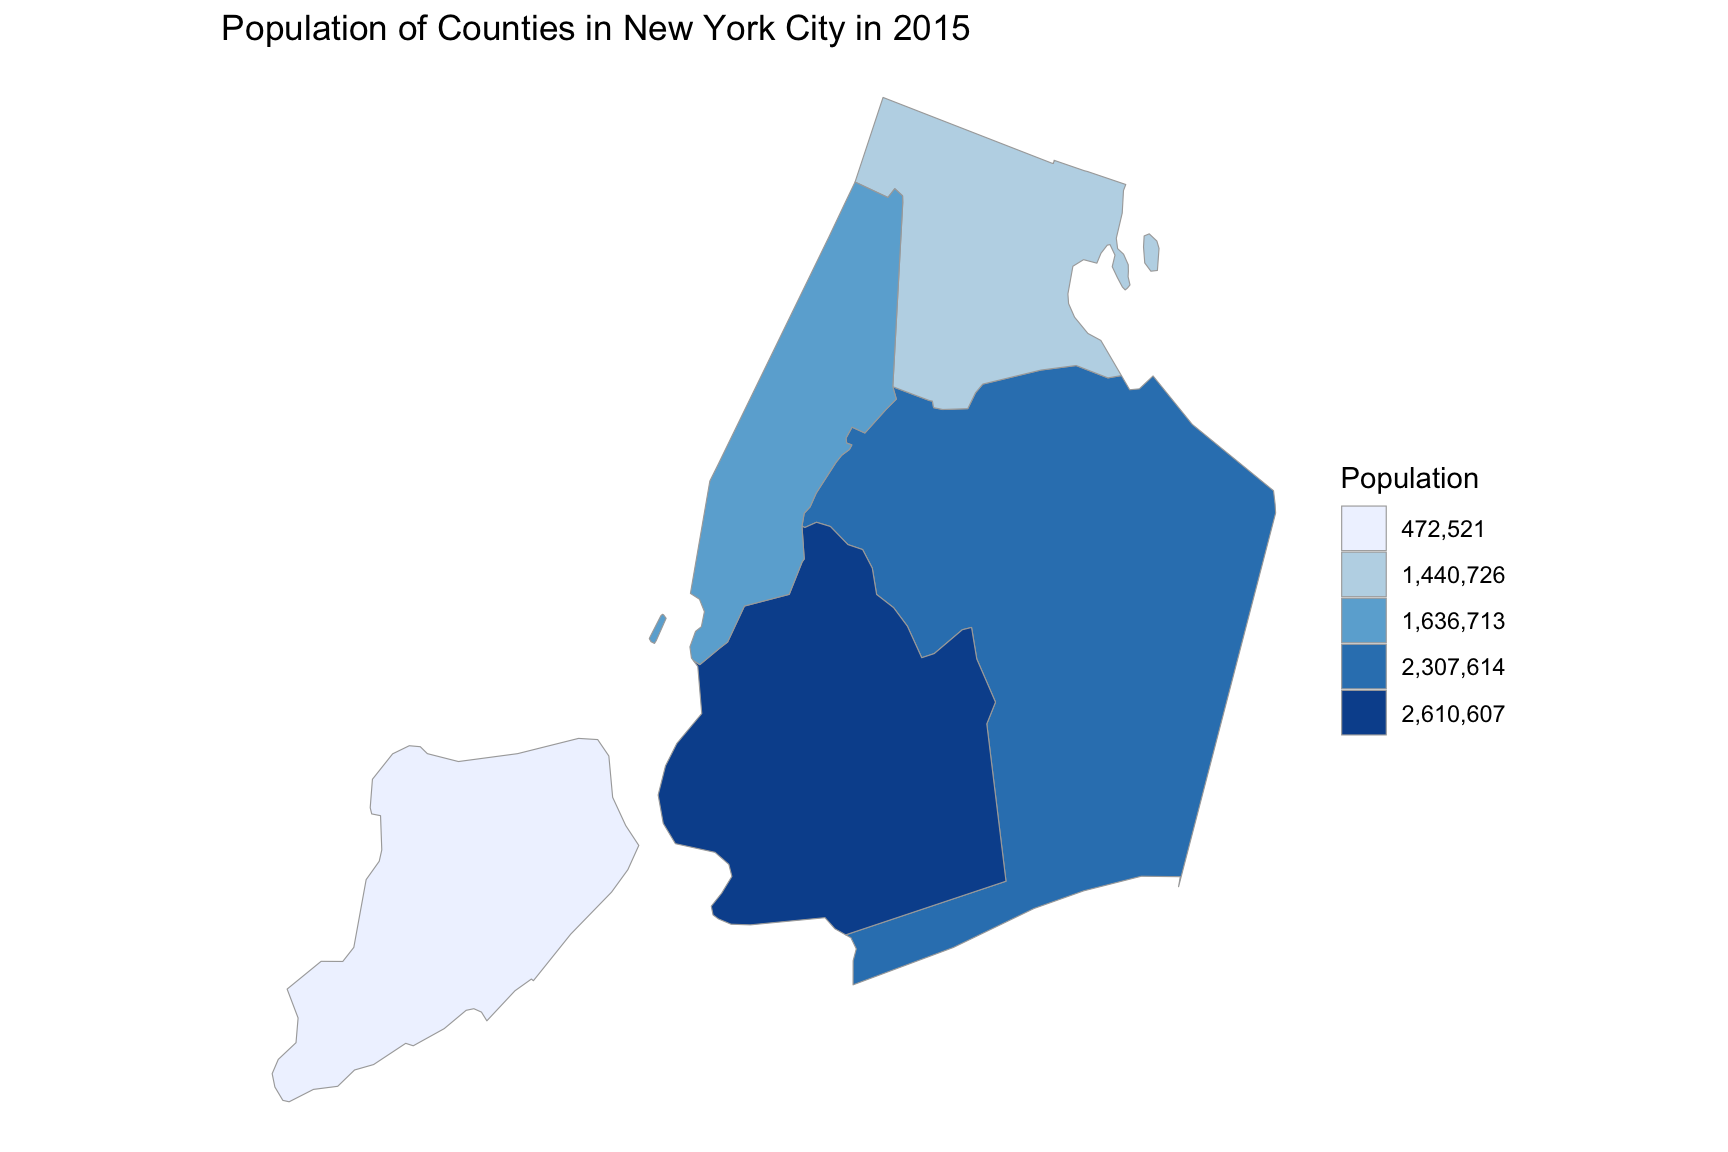
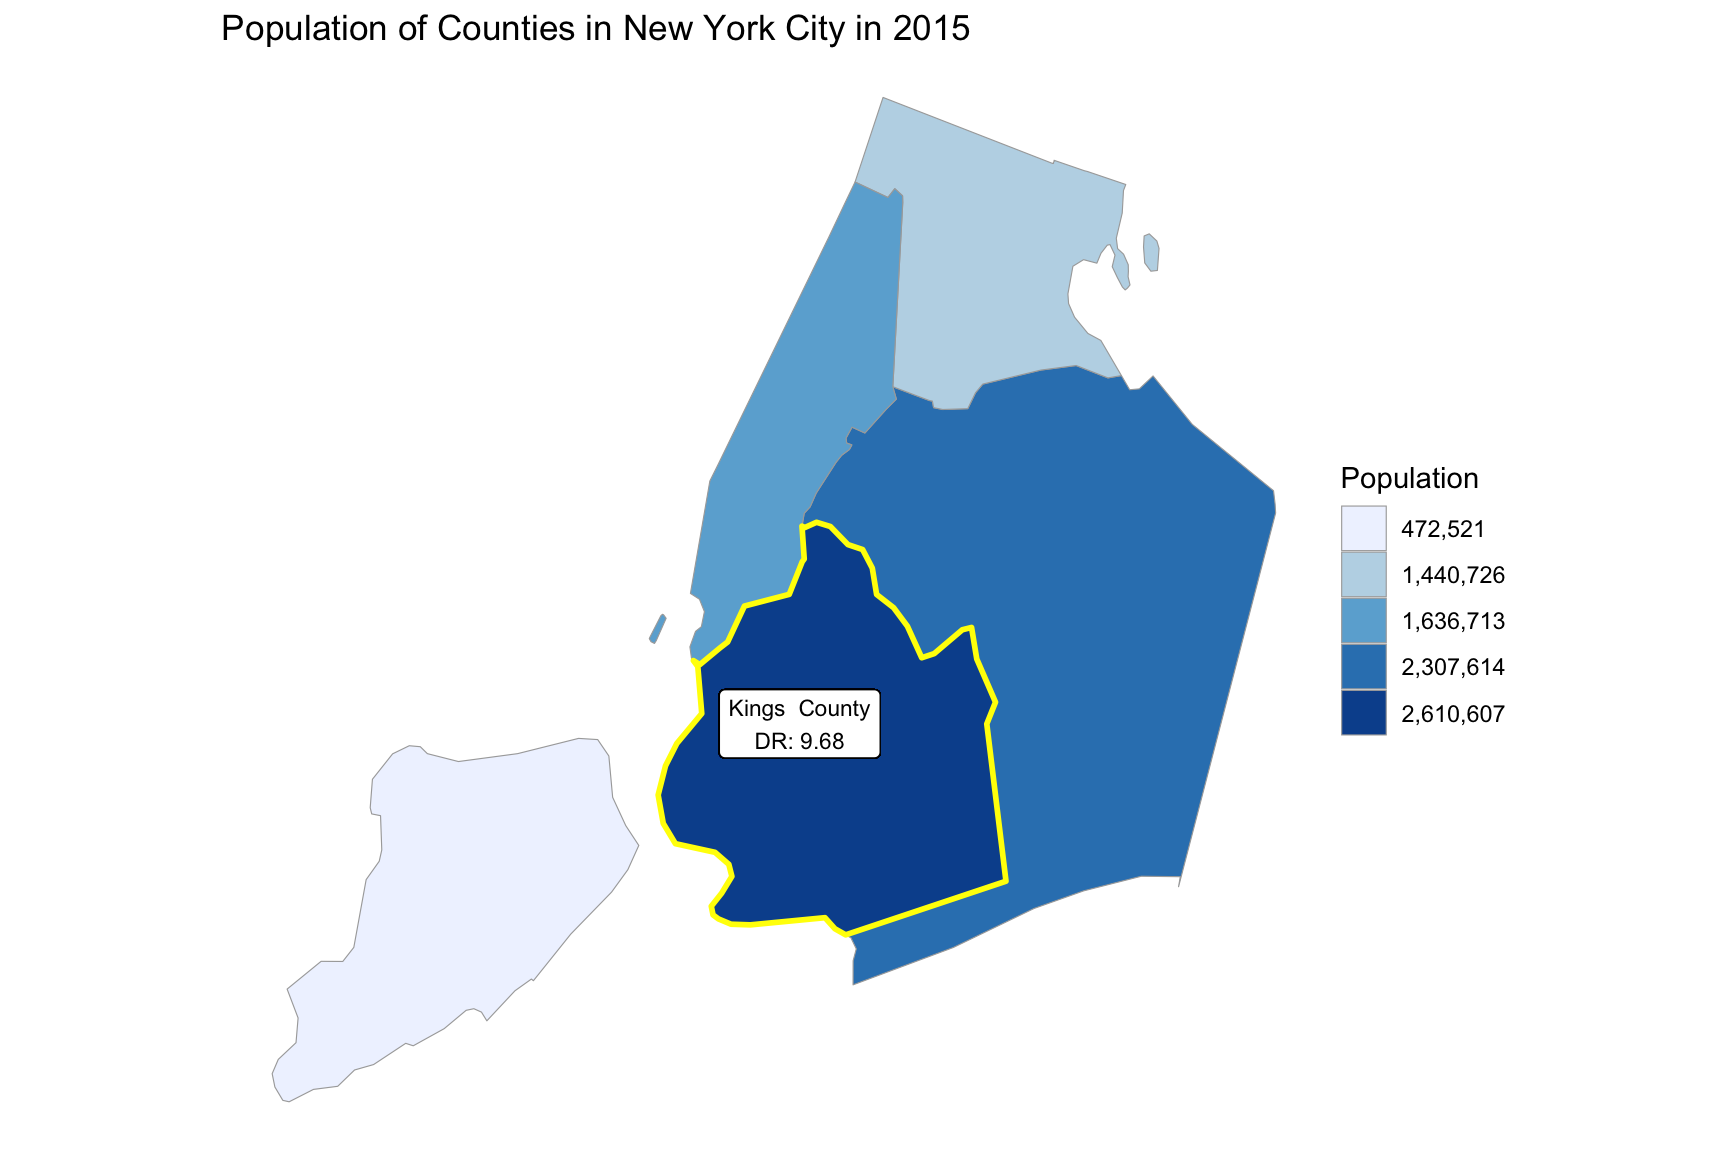
add highlights to the map

diff --git a/NY_data_analyzing.html b/NY_data_analyzing.html
@@ -311,7 +311,6 @@ $(document).ready(function () {
 <ul>
 <li>Missing data of death counts for specific drug types in year 2016, 2017</li>
 </ul>
-<p>*Percent with drugs specified for each month from 2015-2021 are high enough, all above 98%</p>
 <ol style="list-style-type: decimal">
 <li>Number of Drug Overdose Deaths by Drug Categories in NYC</li>
 </ol>
@@ -346,8 +345,8 @@ $(document).ready(function () {
 <ol start="4" style="list-style-type: decimal">
 <li>Median Household Income: New York vs. The U.S</li>
 </ol>
-<div id="htmlwidget-1500a3b0fc5d900f8a44" style="width:90%;height:576px;" class="plotly html-widget"></div>
-<script type="application/json" data-for="htmlwidget-1500a3b0fc5d900f8a44">{"x":{"visdat":{"11ced42f48be3":["function () ","plotlyVisDat"]},"cur_data":"11ced42f48be3","attrs":{"11ced42f48be3":{"x":{},"y":{},"text":{},"mode":"markers+lines","error_y":{},"color":{},"colors":"viridis","alpha":0.5,"alpha_stroke":1,"sizes":[10,100],"spans":[1,20],"type":"scatter"}},"layout":{"margin":{"b":40,"l":60,"t":25,"r":10},"title":"Median Household Income: New York vs. The U.S","xaxis":{"domain":[0,1],"automargin":true,"title":"Year","type":"category","categoryorder":"array","categoryarray":["2015","2016","2017","2018","2019"]},"yaxis":{"domain":[0,1],"automargin":true,"title":"Median Household Income"},"hovermode":"closest","showlegend":true},"source":"A","config":{"modeBarButtonsToAdd":["hoverclosest","hovercompare"],"showSendToCloud":false},"data":[{"x":["2019","2018","2017","2016","2015"],"y":[41432,38467,37397,37525,35176],"text":["Year: 2019<br />Median Household Income: $41432<br />Margin of error: ± $1090","Year: 2018<br />Median Household Income: $38467<br />Margin of error: ± $1864","Year: 2017<br />Median Household Income: $37397<br />Margin of error: ± $1444","Year: 2016<br />Median Household Income: $37525<br />Margin of error: ± $1266","Year: 2015<br />Median Household Income: $35176<br />Margin of error: ± $1392"],"mode":"markers+lines","error_y":{"color":"rgba(68,1,84,0.5)","array":[118,1090,1343,3322,1832]},"type":"scatter","name":"Bronx County","marker":{"color":"rgba(68,1,84,0.5)","line":{"color":"rgba(68,1,84,1)"}},"textfont":{"color":"rgba(68,1,84,0.5)"},"error_x":{"color":"rgba(68,1,84,0.5)"},"line":{"color":"rgba(68,1,84,0.5)"},"xaxis":"x","yaxis":"y","frame":null},{"x":["2019","2018","2017","2016","2015"],"y":[66937,61220,56942,55150,51141],"text":["Year: 2019<br />Median Household Income: $66937<br />Margin of error: ± $1343","Year: 2018<br />Median Household Income: $61220<br />Margin of error: ± $1083","Year: 2017<br />Median Household Income: $56942<br />Margin of error: ± $1151","Year: 2016<br />Median Household Income: $55150<br />Margin of error: ± $1015","Year: 2015<br />Median Household Income: $51141<br />Margin of error: ± $566"],"mode":"markers+lines","error_y":{"color":"rgba(68,58,131,0.5)","array":[5711,1121,94,1864,1083]},"type":"scatter","name":"Kings County","marker":{"color":"rgba(68,58,131,0.5)","line":{"color":"rgba(68,58,131,1)"}},"textfont":{"color":"rgba(68,58,131,0.5)"},"error_x":{"color":"rgba(68,58,131,0.5)"},"line":{"color":"rgba(68,58,131,0.5)"},"xaxis":"x","yaxis":"y","frame":null},{"x":["2019","2018","2017","2016","2015"],"y":[69407,63799,60879,58856,55752],"text":["Year: 2019<br />Median Household Income: $69407<br />Margin of error: ± $1121","Year: 2018<br />Median Household Income: $63799<br />Margin of error: ± $1118","Year: 2017<br />Median Household Income: $60879<br />Margin of error: ± $500","Year: 2016<br />Median Household Income: $58856<br />Margin of error: ± $1105","Year: 2015<br />Median Household Income: $55752<br />Margin of error: ± $592"],"mode":"markers+lines","error_y":{"color":"rgba(49,104,142,0.5)","array":[3480,1781,5148,1118,86]},"type":"scatter","name":"New York City","marker":{"color":"rgba(49,104,142,0.5)","line":{"color":"rgba(49,104,142,1)"}},"textfont":{"color":"rgba(49,104,142,0.5)"},"error_x":{"color":"rgba(49,104,142,0.5)"},"line":{"color":"rgba(49,104,142,0.5)"},"xaxis":"x","yaxis":"y","frame":null},{"x":["2019","2018","2017","2016","2015"],"y":[93651,85066,85071,77559,75575],"text":["Year: 2019<br />Median Household Income: $93651<br />Margin of error: ± $3322","Year: 2018<br />Median Household Income: $85066<br />Margin of error: ± $3480","Year: 2017<br />Median Household Income: $85071<br />Margin of error: ± $3520","Year: 2016<br />Median Household Income: $77559<br />Margin of error: ± $2469","Year: 2015<br />Median Household Income: $75575<br />Margin of error: ± $2566"],"mode":"markers+lines","error_y":{"color":"rgba(33,144,141,0.5)","array":[1444,1151,3520,1327,2788]},"type":"scatter","name":"New York County","marker":{"color":"rgba(33,144,141,0.5)","line":{"color":"rgba(33,144,141,1)"}},"textfont":{"color":"rgba(33,144,141,0.5)"},"error_x":{"color":"rgba(33,144,141,0.5)"},"line":{"color":"rgba(33,144,141,0.5)"},"xaxis":"x","yaxis":"y","frame":null},{"x":["2019","2018","2017","2016","2015"],"y":[73696,69320,64509,62207,60422],"text":["Year: 2019<br />Median Household Income: $73696<br />Margin of error: ± $1832","Year: 2018<br />Median Household Income: $69320<br />Margin of error: ± $1781","Year: 2017<br />Median Household Income: $64509<br />Margin of error: ± $1327","Year: 2016<br />Median Household Income: $62207<br />Margin of error: ± $1151","Year: 2015<br />Median Household Income: $60422<br />Margin of error: ± $723"],"mode":"markers+lines","error_y":{"color":"rgba(53,183,121,0.5)","array":[500,115,1266,1015,2469]},"type":"scatter","name":"Queens County","marker":{"color":"rgba(53,183,121,0.5)","line":{"color":"rgba(53,183,121,1)"}},"textfont":{"color":"rgba(53,183,121,0.5)"},"error_x":{"color":"rgba(53,183,121,0.5)"},"line":{"color":"rgba(53,183,121,0.5)"},"xaxis":"x","yaxis":"y","frame":null},{"x":["2019","2018","2017","2016","2015"],"y":[89821,82166,79201,77197,71622],"text":["Year: 2019<br />Median Household Income: $89821<br />Margin of error: ± $5711","Year: 2018<br />Median Household Income: $82166<br />Margin of error: ± $5148","Year: 2017<br />Median Household Income: $79201<br />Margin of error: ± $2788","Year: 2016<br />Median Household Income: $77197<br />Margin of error: ± $4465","Year: 2015<br />Median Household Income: $71622<br />Margin of error: ± $2532"],"mode":"markers+lines","error_y":{"color":"rgba(143,214,68,0.5)","array":[1151,4465,1105,85,1392]},"type":"scatter","name":"Richmond County","marker":{"color":"rgba(143,214,68,0.5)","line":{"color":"rgba(143,214,68,1)"}},"textfont":{"color":"rgba(143,214,68,0.5)"},"error_x":{"color":"rgba(143,214,68,0.5)"},"line":{"color":"rgba(143,214,68,0.5)"},"xaxis":"x","yaxis":"y","frame":null},{"x":["2019","2018","2017","2016","2015"],"y":[65712,61937,60336,57617,55775],"text":["Year: 2019<br />Median Household Income: $65712<br />Margin of error: ± $118","Year: 2018<br />Median Household Income: $61937<br />Margin of error: ± $94","Year: 2017<br />Median Household Income: $60336<br />Margin of error: ± $86","Year: 2016<br />Median Household Income: $57617<br />Margin of error: ± $115","Year: 2015<br />Median Household Income: $55775<br />Margin of error: ± $85"],"mode":"markers+lines","error_y":{"color":"rgba(253,231,37,0.5)","array":[566,2566,723,2532,592]},"type":"scatter","name":"United States","marker":{"color":"rgba(253,231,37,0.5)","line":{"color":"rgba(253,231,37,1)"}},"textfont":{"color":"rgba(253,231,37,0.5)"},"error_x":{"color":"rgba(253,231,37,0.5)"},"line":{"color":"rgba(253,231,37,0.5)"},"xaxis":"x","yaxis":"y","frame":null}],"highlight":{"on":"plotly_click","persistent":false,"dynamic":false,"selectize":false,"opacityDim":0.2,"selected":{"opacity":1},"debounce":0},"shinyEvents":["plotly_hover","plotly_click","plotly_selected","plotly_relayout","plotly_brushed","plotly_brushing","plotly_clickannotation","plotly_doubleclick","plotly_deselect","plotly_afterplot","plotly_sunburstclick"],"base_url":"https://plot.ly"},"evals":[],"jsHooks":[]}</script>
+<div id="htmlwidget-91bed939f85c453a3e1e" style="width:90%;height:576px;" class="plotly html-widget"></div>
+<script type="application/json" data-for="htmlwidget-91bed939f85c453a3e1e">{"x":{"visdat":{"1201146abe606":["function () ","plotlyVisDat"]},"cur_data":"1201146abe606","attrs":{"1201146abe606":{"x":{},"y":{},"text":{},"mode":"markers+lines","error_y":{},"color":{},"colors":"viridis","alpha":0.5,"alpha_stroke":1,"sizes":[10,100],"spans":[1,20],"type":"scatter"}},"layout":{"margin":{"b":40,"l":60,"t":25,"r":10},"title":"Median Household Income: New York vs. The U.S","xaxis":{"domain":[0,1],"automargin":true,"title":"Year","type":"category","categoryorder":"array","categoryarray":["2015","2016","2017","2018","2019"]},"yaxis":{"domain":[0,1],"automargin":true,"title":"Median Household Income"},"hovermode":"closest","showlegend":true},"source":"A","config":{"modeBarButtonsToAdd":["hoverclosest","hovercompare"],"showSendToCloud":false},"data":[{"x":["2019","2018","2017","2016","2015"],"y":[41432,38467,37397,37525,35176],"text":["Year: 2019<br />Median Household Income: $41432<br />Margin of error: ± $1090","Year: 2018<br />Median Household Income: $38467<br />Margin of error: ± $1864","Year: 2017<br />Median Household Income: $37397<br />Margin of error: ± $1444","Year: 2016<br />Median Household Income: $37525<br />Margin of error: ± $1266","Year: 2015<br />Median Household Income: $35176<br />Margin of error: ± $1392"],"mode":"markers+lines","error_y":{"color":"rgba(68,1,84,0.5)","array":[118,1090,1343,3322,1832]},"type":"scatter","name":"Bronx County","marker":{"color":"rgba(68,1,84,0.5)","line":{"color":"rgba(68,1,84,1)"}},"textfont":{"color":"rgba(68,1,84,0.5)"},"error_x":{"color":"rgba(68,1,84,0.5)"},"line":{"color":"rgba(68,1,84,0.5)"},"xaxis":"x","yaxis":"y","frame":null},{"x":["2019","2018","2017","2016","2015"],"y":[66937,61220,56942,55150,51141],"text":["Year: 2019<br />Median Household Income: $66937<br />Margin of error: ± $1343","Year: 2018<br />Median Household Income: $61220<br />Margin of error: ± $1083","Year: 2017<br />Median Household Income: $56942<br />Margin of error: ± $1151","Year: 2016<br />Median Household Income: $55150<br />Margin of error: ± $1015","Year: 2015<br />Median Household Income: $51141<br />Margin of error: ± $566"],"mode":"markers+lines","error_y":{"color":"rgba(68,58,131,0.5)","array":[5711,1121,94,1864,1083]},"type":"scatter","name":"Kings County","marker":{"color":"rgba(68,58,131,0.5)","line":{"color":"rgba(68,58,131,1)"}},"textfont":{"color":"rgba(68,58,131,0.5)"},"error_x":{"color":"rgba(68,58,131,0.5)"},"line":{"color":"rgba(68,58,131,0.5)"},"xaxis":"x","yaxis":"y","frame":null},{"x":["2019","2018","2017","2016","2015"],"y":[69407,63799,60879,58856,55752],"text":["Year: 2019<br />Median Household Income: $69407<br />Margin of error: ± $1121","Year: 2018<br />Median Household Income: $63799<br />Margin of error: ± $1118","Year: 2017<br />Median Household Income: $60879<br />Margin of error: ± $500","Year: 2016<br />Median Household Income: $58856<br />Margin of error: ± $1105","Year: 2015<br />Median Household Income: $55752<br />Margin of error: ± $592"],"mode":"markers+lines","error_y":{"color":"rgba(49,104,142,0.5)","array":[3480,1781,5148,1118,86]},"type":"scatter","name":"New York City","marker":{"color":"rgba(49,104,142,0.5)","line":{"color":"rgba(49,104,142,1)"}},"textfont":{"color":"rgba(49,104,142,0.5)"},"error_x":{"color":"rgba(49,104,142,0.5)"},"line":{"color":"rgba(49,104,142,0.5)"},"xaxis":"x","yaxis":"y","frame":null},{"x":["2019","2018","2017","2016","2015"],"y":[93651,85066,85071,77559,75575],"text":["Year: 2019<br />Median Household Income: $93651<br />Margin of error: ± $3322","Year: 2018<br />Median Household Income: $85066<br />Margin of error: ± $3480","Year: 2017<br />Median Household Income: $85071<br />Margin of error: ± $3520","Year: 2016<br />Median Household Income: $77559<br />Margin of error: ± $2469","Year: 2015<br />Median Household Income: $75575<br />Margin of error: ± $2566"],"mode":"markers+lines","error_y":{"color":"rgba(33,144,141,0.5)","array":[1444,1151,3520,1327,2788]},"type":"scatter","name":"New York County","marker":{"color":"rgba(33,144,141,0.5)","line":{"color":"rgba(33,144,141,1)"}},"textfont":{"color":"rgba(33,144,141,0.5)"},"error_x":{"color":"rgba(33,144,141,0.5)"},"line":{"color":"rgba(33,144,141,0.5)"},"xaxis":"x","yaxis":"y","frame":null},{"x":["2019","2018","2017","2016","2015"],"y":[73696,69320,64509,62207,60422],"text":["Year: 2019<br />Median Household Income: $73696<br />Margin of error: ± $1832","Year: 2018<br />Median Household Income: $69320<br />Margin of error: ± $1781","Year: 2017<br />Median Household Income: $64509<br />Margin of error: ± $1327","Year: 2016<br />Median Household Income: $62207<br />Margin of error: ± $1151","Year: 2015<br />Median Household Income: $60422<br />Margin of error: ± $723"],"mode":"markers+lines","error_y":{"color":"rgba(53,183,121,0.5)","array":[500,115,1266,1015,2469]},"type":"scatter","name":"Queens County","marker":{"color":"rgba(53,183,121,0.5)","line":{"color":"rgba(53,183,121,1)"}},"textfont":{"color":"rgba(53,183,121,0.5)"},"error_x":{"color":"rgba(53,183,121,0.5)"},"line":{"color":"rgba(53,183,121,0.5)"},"xaxis":"x","yaxis":"y","frame":null},{"x":["2019","2018","2017","2016","2015"],"y":[89821,82166,79201,77197,71622],"text":["Year: 2019<br />Median Household Income: $89821<br />Margin of error: ± $5711","Year: 2018<br />Median Household Income: $82166<br />Margin of error: ± $5148","Year: 2017<br />Median Household Income: $79201<br />Margin of error: ± $2788","Year: 2016<br />Median Household Income: $77197<br />Margin of error: ± $4465","Year: 2015<br />Median Household Income: $71622<br />Margin of error: ± $2532"],"mode":"markers+lines","error_y":{"color":"rgba(143,214,68,0.5)","array":[1151,4465,1105,85,1392]},"type":"scatter","name":"Richmond County","marker":{"color":"rgba(143,214,68,0.5)","line":{"color":"rgba(143,214,68,1)"}},"textfont":{"color":"rgba(143,214,68,0.5)"},"error_x":{"color":"rgba(143,214,68,0.5)"},"line":{"color":"rgba(143,214,68,0.5)"},"xaxis":"x","yaxis":"y","frame":null},{"x":["2019","2018","2017","2016","2015"],"y":[65712,61937,60336,57617,55775],"text":["Year: 2019<br />Median Household Income: $65712<br />Margin of error: ± $118","Year: 2018<br />Median Household Income: $61937<br />Margin of error: ± $94","Year: 2017<br />Median Household Income: $60336<br />Margin of error: ± $86","Year: 2016<br />Median Household Income: $57617<br />Margin of error: ± $115","Year: 2015<br />Median Household Income: $55775<br />Margin of error: ± $85"],"mode":"markers+lines","error_y":{"color":"rgba(253,231,37,0.5)","array":[566,2566,723,2532,592]},"type":"scatter","name":"United States","marker":{"color":"rgba(253,231,37,0.5)","line":{"color":"rgba(253,231,37,1)"}},"textfont":{"color":"rgba(253,231,37,0.5)"},"error_x":{"color":"rgba(253,231,37,0.5)"},"line":{"color":"rgba(253,231,37,0.5)"},"xaxis":"x","yaxis":"y","frame":null}],"highlight":{"on":"plotly_click","persistent":false,"dynamic":false,"selectize":false,"opacityDim":0.2,"selected":{"opacity":1},"debounce":0},"shinyEvents":["plotly_hover","plotly_click","plotly_selected","plotly_relayout","plotly_brushed","plotly_brushing","plotly_clickannotation","plotly_doubleclick","plotly_deselect","plotly_afterplot","plotly_sunburstclick"],"base_url":"https://plot.ly"},"evals":[],"jsHooks":[]}</script>
 <ol start="5" style="list-style-type: decimal">
 <li>Income vs. Percent of Drug Overdose Death by Year in NYC</li>
 </ol>
@@ -382,7 +381,7 @@ $(document).ready(function () {
 <ol start="7" style="list-style-type: decimal">
 <li>Map of Population by NYC counties:</li>
 </ol>
-<p><img src="NY_data_analyzing_files/figure-html/unnamed-chunk-15-1.png" width="90%" /></p>
+<p><img src="NY_data_analyzing_files/figure-html/unnamed-chunk-16-1.png" width="90%" /></p>
 
 
 
